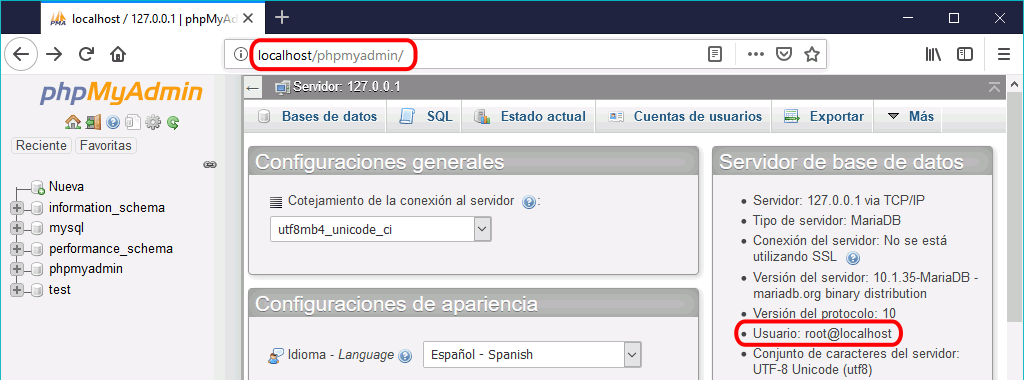
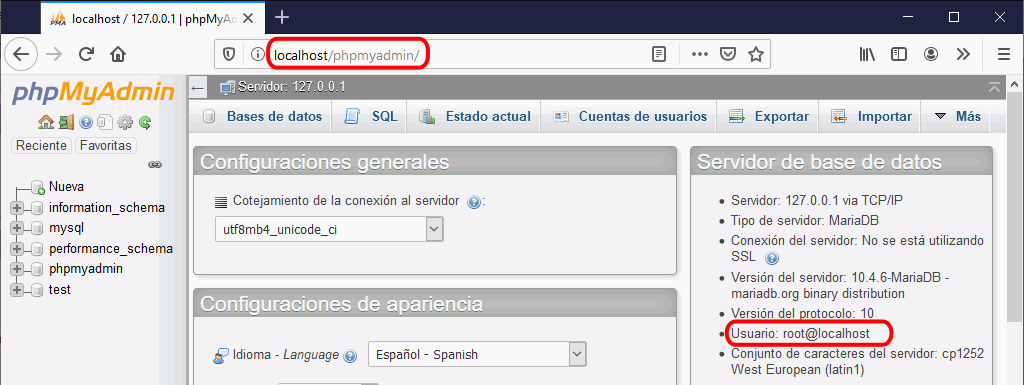
phpMyAdmin (1): Actualizo a versión 4.9

diff --git a/otros/descarga-aplicaciones.html b/otros/descarga-aplicaciones.html
@@ -37,11 +37,24 @@
     <ul>
       <li>Curso 2019/20
         <ul>
+          <li>Aplicaciones:
+            <ul>
+              <li>XAMPP: <a href="http://www.mclibre.org/descargar/webapps/1920/xampp_7-3-9_VC15_x64.exe">XAMPP 7.3.9 64 bits (03/09/19, 145 MB)</a></li>
+              <li>phpMyAdmin:
+                <ul>
+                  <li><a href="http://www.mclibre.org/descargar/webapps/1920/phpMyAdmin_4-9-1_all_languages.zip">phpMyAdmin 4.9.1 all languages (21/09/19, 10,8 MB)</a></li>
+                  <li><a href="http://www.mclibre.org/descargar/webapps/1920/phpMyAdmin_4-9-2_all_languages.zip">phpMyAdmin 4.9.2 all languages (22/11/19, 10,6 MB)</a></li>
+                  <li><a href="http://www.mclibre.org/descargar/webapps/1920/agenda-191125.zip">aplicación web Agenda (25/11/19, 35 KB)</a></li>
+                  <li><a href="http://www.mclibre.org/descargar/webapps/1920/phpmyadmin-theme-metro-2-8-1.zip">tema metro 2.8.1 para phpMyAdmin 4.9 (05/06/19, 1,54 MB)</a></li>
+                </ul>
+              </li>
+            </ul>
+          </li>
           <li>Automatización:
             <ul>
               <li><a href="http://www.mclibre.org/descargar/webapps/1920/packer_1-4-5_x64.zip">Packer 1.4.5 (05/11/19, 42,9 MB)</a></li>
               <li><a href="http://www.mclibre.org/descargar/webapps/1920/packer-2-1-ubuntu-18-04-3-server.ova">Máquina virtual VirtualBox (OVA) de Ubuntu 18.04.3, actualizada al 14 de noviembre de 2019 (14/11/19, 866 MB)</a>.
-              <p>Esta máquina se ha generado a partir de la <a href="http://www.mclibre.org/descargar/webapps/1920/ubuntu-18.04.3-server-amd64.iso">imagen .iso del disco de instalación de Ubuntu Server 18.04.3 LTS (08/08/19, 900 MB)</a> y se ha utilizado la <a href="http://www.mclibre.org/descargar/webapps/1920/systemrescuecd-6.0.3.iso">imagen .iso de SystemRescueCD 6.03 (14/04/19, 841 MB)</a> para reducir el tamaño de la máquina virtual.</p>
+                <p>Esta máquina se ha generado a partir de la <a href="http://www.mclibre.org/descargar/webapps/1920/ubuntu-18.04.3-server-amd64.iso">imagen .iso del disco de instalación de Ubuntu Server 18.04.3 LTS (08/08/19, 900 MB)</a> y se ha utilizado la <a href="http://www.mclibre.org/descargar/webapps/1920/systemrescuecd-6.0.3.iso">imagen .iso de SystemRescueCD 6.03 (14/04/19, 841 MB)</a> para reducir el tamaño de la máquina virtual.</p>
               </li>
             </ul>
           </li>
@@ -52,29 +65,22 @@
           <li>Aplicaciones:
             <ul>
               <li>XAMPP: <a href="http://www.mclibre.org/descargar/webapps/1819/xampp_7-2-9_VC15.exe">XAMPP 7.2.9 (27/08/18, 123 MB)</a></li>
-              <li>phpMyAdmin:
-                <a href="http://www.mclibre.org/descargar/webapps/1819/phpMyAdmin_4-8-3_all_languages.zip">phpMyAdmin 4.8.3 all languages (28/08/18, 10,2 MB)</a> -
-                <a href="http://www.mclibre.org/descargar/webapps/1819/phpMyAdmin_4-8-4_all_languages.zip">phpMyAdmin 4.8.4 all languages (11/12/18, 10,2 MB)</a> -
-                <a href="http://www.mclibre.org/descargar/webapps/1819/agenda-181210.zip">aplicación web Agenda (10/12/18, 35 KB)</a> -
-                <a href="http://www.mclibre.org/descargar/webapps/1819/phpmyadmin-theme-metro-2-8.zip">tema metro 2.8 para phpMyAdmin 4.8 (19/04/18)</a>
-              </li>
               <li>OpenCart:
-                <a href="http://www.mclibre.org/descargar/webapps/1819/opencart-3-0-1-2.zip">OpenCart 3.0.1.2 (07/07/17, 15,6 MB)</a> -
-                <a href="http://www.mclibre.org/descargar/webapps/1819/opencart-3-0-2-0.zip">OpenCart 3.0.2.0 (12/07/17, 15,7 MB)</a> -
-                <a href="http://www.mclibre.org/descargar/webapps/1819/opencart-3-0-2-0-es-es.zip">Traducción al español (de España) de OpenCart 3.0.2.0 (08/01/18, 326 KB)</a>, disponible en <a href="https://github.com/BartolomeSintes/copia-opencart-spanish">GitHub</a> y realizada a partir de la traducción al español de Chile disponible en <a href="https://github.com/burbuja/opencart-spanish">GitHub</a>.
+                <ul>
+                  <li><a href="http://www.mclibre.org/descargar/webapps/1819/opencart-3-0-1-2.zip">OpenCart 3.0.1.2 (07/07/17, 15,6 MB)</a></li>
+                  <li><a href="http://www.mclibre.org/descargar/webapps/1819/opencart-3-0-2-0.zip">OpenCart 3.0.2.0 (12/07/17, 15,7 MB)</a></li>
+                  <li><a href="http://www.mclibre.org/descargar/webapps/1819/opencart-3-0-2-0-es-es.zip">Traducción al español (de España) de OpenCart 3.0.2.0 (08/01/18, 326 KB)</a>, disponible en <a href="https://github.com/BartolomeSintes/copia-opencart-spanish">GitHub</a> y realizada a partir de la traducción al español de Chile disponible en <a href="https://github.com/burbuja/opencart-spanish">GitHub</a></li>
+                </ul>
               </li>
               <li>WordPress:
-                <a href="http://www.mclibre.org/descargar/webapps/1819/wordpress_5-0_es-ES.zip">WordPress 5.0 en español (06/12/18)</a> -
-                <a href="http://www.mclibre.org/descargar/webapps/1819/wordpress_5-0-3_es-ES.zip">WordPress 5.0.3 en español (09/01/19)</a>
+                <ul>
+                  <li><a hef="http://www.mclibre.org/descargar/webapps/1819/wordpress_5-0_es-ES.zip">WordPress 5.0 en español (06/12/18)</a></li>
+                  <li><a href="http://www.mclibre.org/descargar/webapps/1819/wordpress_5-0-3_es-ES.zip">WordPress 5.0.3 en español (09/01/19)</a></li>
+                </ul>
               </li>
               <li>NextCloud:
                 <a href="http://www.mclibre.org/descargar/webapps/1819/nextcloud_desktop_client_2-5-1.exe">Nextcloud Desktop Client 2.5.1 (04/12/18, 82,8 MB, versión para Windows)</a>
               </li>
-            </ul>
-          </li>
-          <li>Automatización:
-            <ul>
-              <li><a href="http://www.mclibre.org/descargar/webapps/1819/packer_1-3-3_x64.zip">Packer 1.3.3 (05/12/18, 26,2 MB)</a></li>
             </ul>
           </li>
         </ul>
@@ -88,8 +94,10 @@
         <ul>
           <li>XAMPP: <a href="http://www.mclibre.org/descargar/webapps/1617/xampp_7-0-9_VC14.exe">XAMPP 7.0.9 (31/08/16, 119 MB)</a></li>
           <li>Drupal:
-            <a href="http://www.mclibre.org/descargar/webapps/1617/drupal_8-2-0.zip">Drupal 8.2.0 (05/10/16)</a> -
-            <a href="http://www.mclibre.org/descargar/webapps/1617/drupal_8-2-6.zip">Drupal 8.2.6 (01/02/17)</a>
+            <ul>
+              <li><a href="http://www.mclibre.org/descargar/webapps/1617/drupal_8-2-0.zip">Drupal 8.2.0 (05/10/16)</a></li>
+              <li><a href="http://www.mclibre.org/descargar/webapps/1617/drupal_8-2-6.zip">Drupal 8.2.6 (01/02/17)</a></li>
+            </ul>
           </li>
         </ul>
       </li>
@@ -131,7 +139,7 @@
   </section>
 
   <footer>
-    <p class="ultmod">Última modificación de esta página: 13 de noviembre de 2019</p>
+    <p class="ultmod">Última modificación de esta página: 25 de noviembre de 2019</p>
 
     <p class="licencia">
       <a rel="license" href="https://creativecommons.org/licenses/by-sa/4.0/deed.es_ES"><img src="../varios/iconos/icono-cc-by-sa.svg" alt="Licencia Creative Commons" title="Licencia Creative Commons BY-SA" width="120" height="42"></a><br>

diff --git a/lecciones/phpmyadmin-1.html b/lecciones/phpmyadmin-1.html
@@ -70,12 +70,12 @@
     <ol>
       <li>Abra el phpMyAdmin de XAMPP para comprobar que se conecta a MySQL/MariaDB como usuario <strong>root</strong>.
         <p class="captura">
-          <img src="../img/phpmyadmin/1-1-e-2-xampp.png" alt="phpMyAdmin. XAMPP" width="1024" height="380">
+          <img src="../img/phpmyadmin/1-1-e-2-xampp.png" alt="phpMyAdmin. XAMPP" width="1024" height="385">
         </p>
       </li>
       <li>Compruebe qué versión de phpMyAdmin está instalada con XAMPP. No es necesario actualizar ahora phpMyAdmin.
         <p class="captura">
-          <img src="../img/phpmyadmin/1-1-e-3-xampp.png" alt="phpMyAdmin. XAMPP" width="1005" height="398">
+          <img src="../img/phpmyadmin/1-1-e-3-xampp.png" alt="phpMyAdmin. XAMPP" width="995" height="389">
         </p>
       </li>
       <li>Modifique mediante phpMyAdmin la contraseña del usuario <strong>root</strong> en MySQL/MariaDB y establezca como contraseña <strong>root</strong>.
@@ -97,7 +97,7 @@
       </li>
       <li>Compruebe que puede conectarse de nuevo a MySQL/MariaDB:
         <p class="captura">
-          <img src="../img/phpmyadmin/1-1-e-2-xampp.png" alt="phpMyAdmin. XAMPP" width="1024" height="345">
+          <img src="../img/phpmyadmin/1-1-e-2-xampp.png" alt="phpMyAdmin. XAMPP" width="1024" height="385">
         </p>
       </li>
       <li>Modifique la contraseña del usuario <strong>root</strong> en MySQL/MariaDB y en el archivo de configuración de phpMyAdmin, dejándolo de nuevo sin contraseña, y compruebe que puede conectarse.</li>
@@ -110,7 +110,7 @@
       <li>Visite la página web del proyecto phpMyAdmin.</li>
       <li>phpMyAdmin se distribuye en forma de archivo comprimido. En la página de descarga se ofrecen varios archivos. La diferencia entre ellos son los idiomas incluidos (la mitad de los archivos incluyen únicamente el idioma inglés y la otra mitad incluyen todos los idiomas disponibles) y el tipo de compresión (zip, tar.gz o tar.xz).
         <p>Para poder hacer en un ejercicio posterior la actualización de phpMyAdmin, descargue la <strong>penúltima</strong> versión disponible, no la última versión. Descargue la versión con todos los idiomas, en el formato de compresión que prefiera.</p>
-        <p><img src="../varios/iconos/icono-warning.svg" alt="¡Atención!" width="55" height="48" class="izquierda">Actualmente (diciembre de 2018), la última versión publicada es phpMyAdmin 4.8.4, publicada el 11 de diciembre de 2018, y la penúltima versión es <strong>phpMyAdmin 4.8.3</strong>, publicada el 22 de agosto de 2018. Probablemente, los ejercicios se puedan realizar con versiones posteriores, pero si quiere utilizar las mismas versiones, descárguela de la web de phpMyAdmin o de la página de <a href="../otros/descarga-aplicaciones.html">Descarga de aplicaciones</a> de estos apuntes.</p>
+        <p><img src="../varios/iconos/icono-warning.svg" alt="¡Atención!" width="55" height="48" class="izquierda">Actualmente (noviembre de 2019), la última versión publicada es phpMyAdmin 4.9.2, publicada el 22 de noviembre de 2019, y la penúltima versión es <strong>phpMyAdmin 4.9.1</strong>, publicada el 21 de septiembre de 2019. Probablemente, los ejercicios se puedan realizar con versiones posteriores, pero si quiere utilizar las mismas versiones, descárguela de la web de phpMyAdmin o de la página de <a href="../otros/descarga-aplicaciones.html">Descarga de aplicaciones</a> de estos apuntes.</p>
       </li>
     </ol>
   </section>
@@ -188,7 +188,7 @@
         </p>
       </li>
       <li>Descargue la última versión de phpMyAdmin.
-        <p><img src="../varios/iconos/icono-warning.svg" alt="¡Atención!" width="55" height="48" class="izquierda">Actualmente (diciembre de 2018), la última versión publicada es <strong>phpMyAdmin 4.8.4</strong>, publicada el 11 de diciembre de 2018. Probablemente, los ejercicios se puedan realizar con versiones posteriores, pero si quiere utilizar las mismas versiones, descárguela de la web de phpMyAdmin o de la página de <a href="../otros/descarga-aplicaciones.html">Descarga de aplicaciones</a> de estos apuntes.</p>
+        <p><img src="../varios/iconos/icono-warning.svg" alt="¡Atención!" width="55" height="48" class="izquierda">Actualmente (novembre de 2019), la última versión publicada es <strong>phpMyAdmin 4.9.2</strong>, publicada el 22 de noviembre de 2019. Probablemente, los ejercicios se puedan realizar con versiones posteriores, pero si quiere utilizar las mismas versiones, descárguela de la web de phpMyAdmin o de la página de <a href="../otros/descarga-aplicaciones.html">Descarga de aplicaciones</a> de estos apuntes.</p>
       </li>
       <li>Sustituya la versión anterior por la última, conservando el archivo de configuración.</li>
       <li>Compruebe que tiene instalada la última versión de phpMyAdmin:
@@ -200,7 +200,7 @@
   </section>
 
   <footer>
-    <p class="ultmod">Última modificación de esta página: 12 de diciembre de 2018</p>
+    <p class="ultmod">Última modificación de esta página: 25 de noviembre de 2019</p>
 
     <p class="licencia">
       <a rel="license" href="https://creativecommons.org/licenses/by-sa/4.0/deed.es_ES"><img src="../varios/iconos/icono-cc-by-sa.svg" alt="Licencia Creative Commons" title="Licencia Creative Commons BY-SA" width="120" height="42"></a><br>

diff --git a/lecciones/phpmyadmin.html b/lecciones/phpmyadmin.html
@@ -59,7 +59,7 @@
 
     <p><a href="https://www.phpmyadmin.net/">phpMyAdmin</a> es una herramienta de administración del sistema gestor de bases de datos MySQL.</p>
 
-    <p>Durante los casi veinte años de existencia del proyecto, phpMyadmin ha publicado más o menos una nueva versión al año, además de muchas versiones menores.</p>
+    <p>Durante los más de veinte años de existencia del proyecto, phpMyadmin ha publicado más o menos una nueva versión al año, además de muchas versiones menores.</p>
 
     <p class="mcl-svg-diagrama-temporal">
       <svg version="1.1" xmlns="http://www.w3.org/2000/svg" width="1200" viewBox="-80 -60 1200 115">
